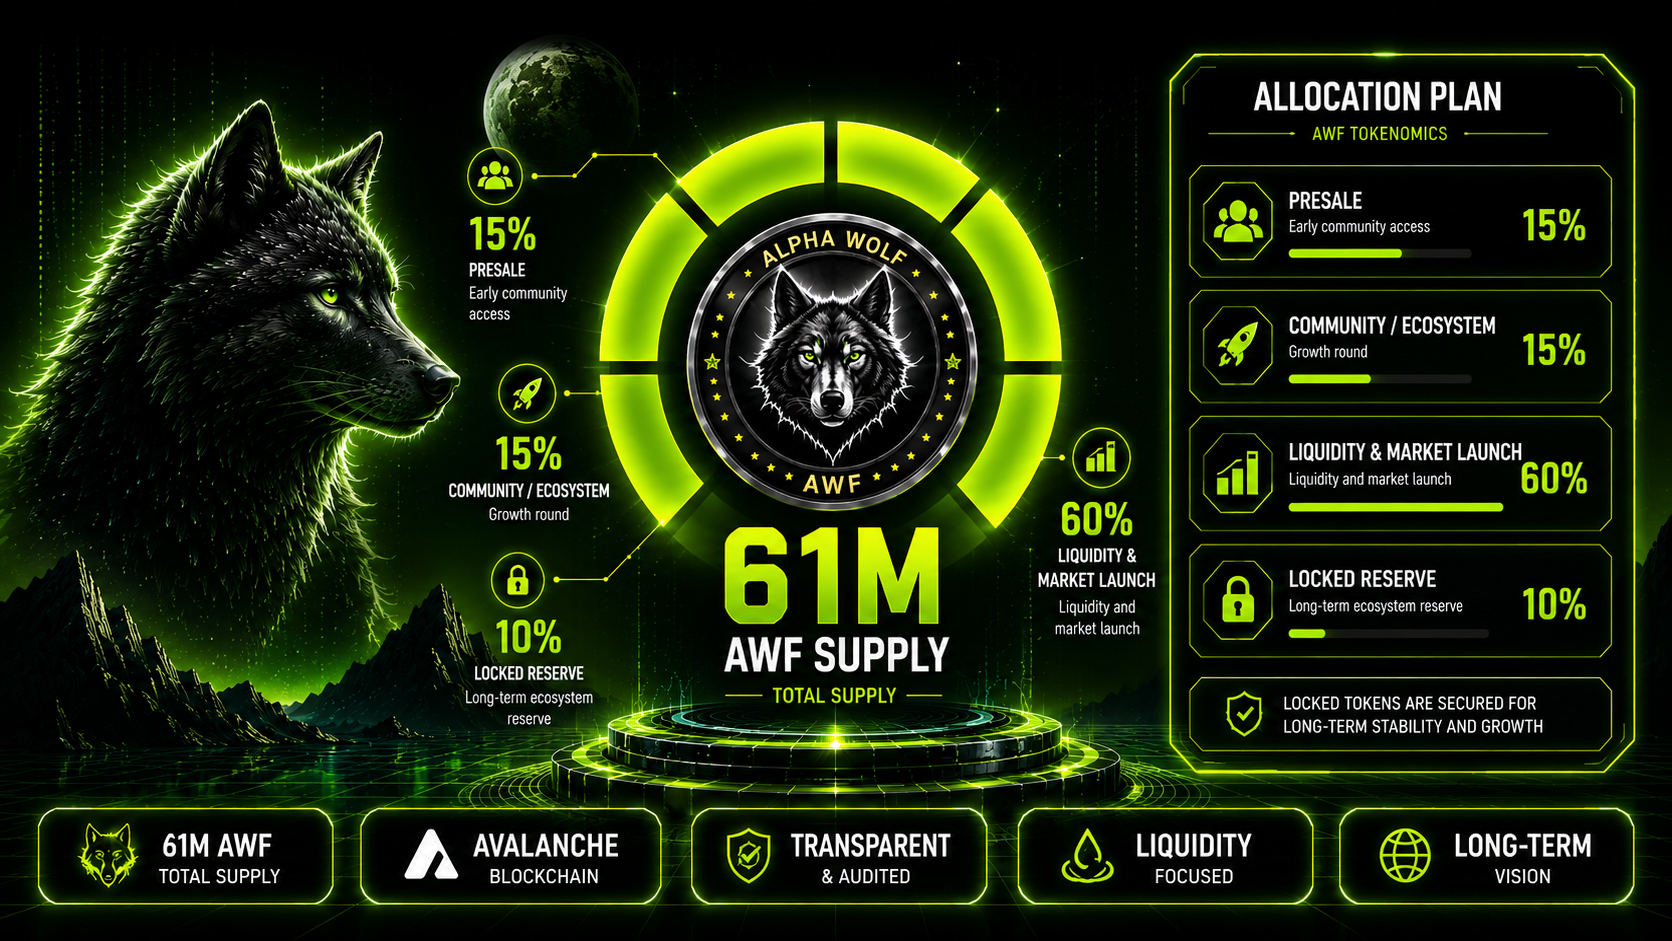
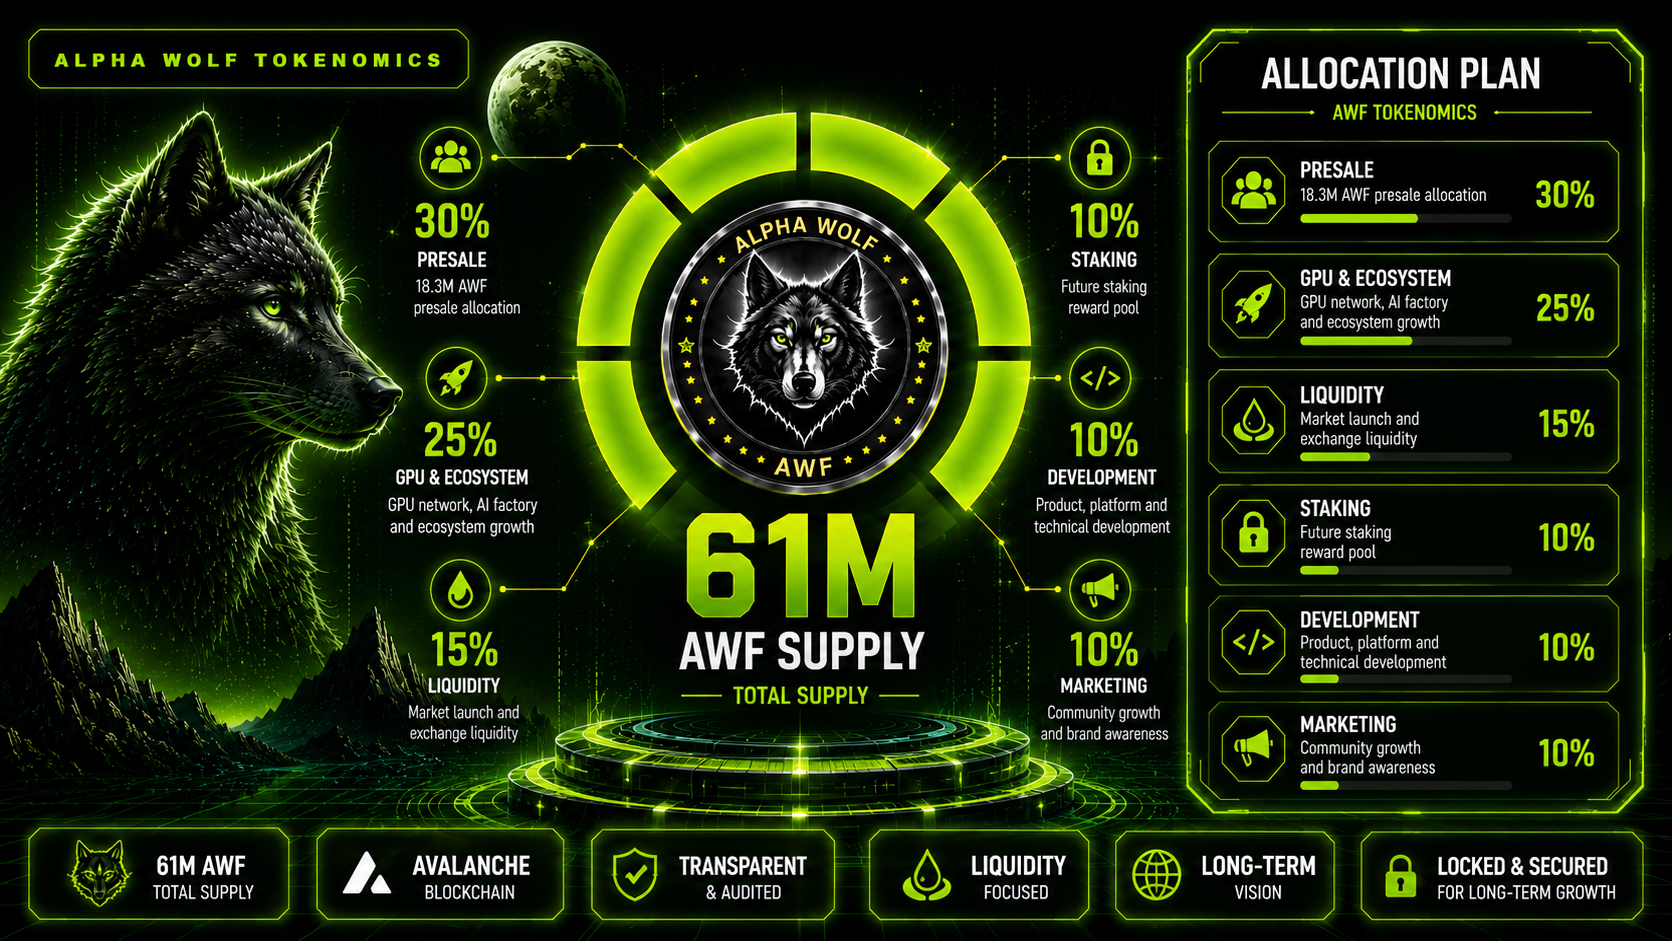
Fix mobile header menu

diff --git a/app/tokenomics/page.tsx b/app/tokenomics/page.tsx
@@ -1,10 +1,12 @@
 import Header from "@/components/Header";
 
 const items = [
-  ["PRESALE", "15%", "Early community access"],
-  ["COMMUNITY / ECOSYSTEM", "15%", "Growth round"],
-  ["LIQUIDITY & MARKET LAUNCH", "60%", "Exchange liquidity and market launch"],
-  ["LOCKED RESERVE", "10%", "Long-term ecosystem reserve"],
+  ["PRESALE", "30%", "18.3M AWF presale allocation"],
+  ["GPU & ECOSYSTEM", "25%", "GPU network, AI factory and ecosystem growth"],
+  ["LIQUIDITY", "15%", "Market launch and exchange liquidity"],
+  ["STAKING", "10%", "Future staking reward pool"],
+  ["DEVELOPMENT", "10%", "Product, platform and technical development"],
+  ["MARKETING", "10%", "Community growth and brand awareness"],
 ];
 
 export default function TokenomicsPage() {
@@ -12,42 +14,43 @@ export default function TokenomicsPage() {
     <div className="min-h-screen bg-[#020400] text-white">
       <Header active="tokenomics" />
 
-      <main className="relative min-h-[calc(100vh-74px)] overflow-hidden bg-[#020400]">
-        <section className="relative mx-auto max-w-[1200px] px-4 py-6">
+      <main className="relative min-h-[calc(100vh-74px)] overflow-x-hidden bg-[#020400]">
+        <section className="relative mx-auto max-w-[1720px] px-4 py-6 md:px-6">
           <div className="relative overflow-hidden rounded-[34px] border border-lime-400/25 bg-black shadow-[0_0_80px_rgba(132,255,0,.12)]">
             <img
               src="/tokenomics-bg.png"
               alt="Alpha Wolf Tokenomics"
-              className="w-full min-h-[720px] object-cover object-center"
+              className="block h-auto w-full object-contain"
             />
 
-            <div className="absolute inset-0 bg-gradient-to-b from-black/10 via-transparent to-black/35" />
+            <div className="pointer-events-none absolute inset-0 bg-gradient-to-b from-black/5 via-transparent to-black/20" />
 
-            <div className="absolute left-8 top-8 z-10 rounded-2xl border border-lime-400/35 bg-black/55 px-5 py-3 backdrop-blur-md">
-              <p className="text-xs font-black tracking-[0.35em] text-lime-400">
+            <div className="absolute left-5 top-5 z-10 rounded-2xl border border-lime-400/35 bg-black/55 px-4 py-2 backdrop-blur-md md:left-8 md:top-8 md:px-5 md:py-3">
+              <p className="text-[10px] font-black tracking-[0.28em] text-lime-400 md:text-xs md:tracking-[0.35em]">
                 ALPHA WOLF TOKENOMICS
               </p>
             </div>
+          </div>
 
-            <div className="absolute bottom-8 left-8 right-8 z-10 grid grid-cols-1 gap-4 md:grid-cols-4">
-              {items.map(([title, percent, desc]) => (
-                <div
-                  key={title}
-                  className="rounded-2xl border border-lime-400/35 bg-black/65 p-5 backdrop-blur-md shadow-[0_0_30px_rgba(132,255,0,.12)]"
-                >
-                  <div className="flex items-center justify-between gap-3">
-                    <h3 className="text-sm font-black tracking-wide text-white">
-                      {title}
-                    </h3>
-                    <span className="text-2xl font-black text-lime-400">
-                      {percent}
-                    </span>
-                  </div>
+          <div className="mt-5 grid grid-cols-1 gap-4 sm:grid-cols-2 xl:grid-cols-3">
+            {items.map(([title, percent, desc]) => (
+              <div
+                key={title}
+                className="rounded-2xl border border-lime-400/35 bg-black/65 p-5 shadow-[0_0_30px_rgba(132,255,0,.12)] backdrop-blur-md"
+              >
+                <div className="flex items-center justify-between gap-3">
+                  <h3 className="text-sm font-black tracking-wide text-white">
+                    {title}
+                  </h3>
 
-                  <p className="mt-2 text-sm text-white/65">{desc}</p>
+                  <span className="text-2xl font-black text-lime-400">
+                    {percent}
+                  </span>
                 </div>
-              ))}
-            </div>
+
+                <p className="mt-2 text-sm text-white/65">{desc}</p>
+              </div>
+            ))}
           </div>
         </section>
       </main>
